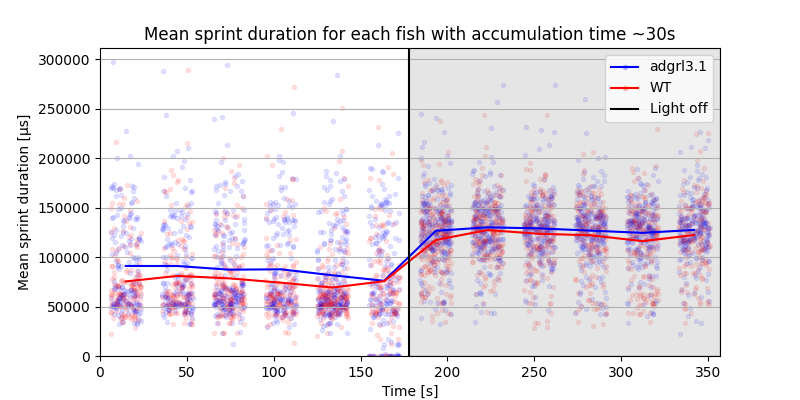
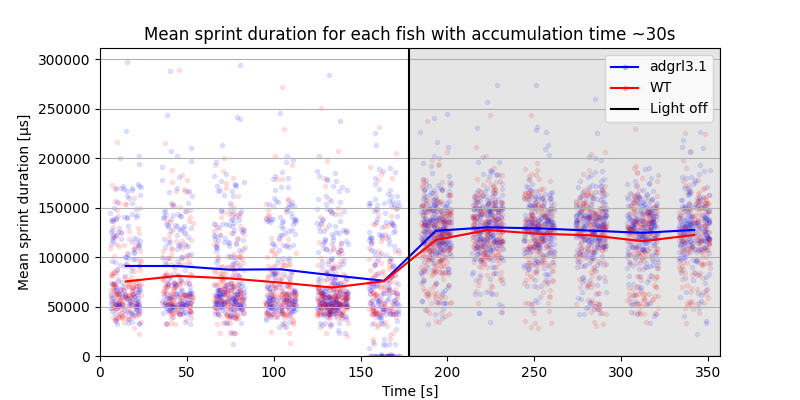
almost there

diff --git a/adgrl3-experiment/classification.py b/adgrl3-experiment/classification.py
@@ -66,80 +66,94 @@ def plot_histogram_bins(mutant_on, mutant_off, wildtype_on, wildtype_off,metric,
     plt.legend()
 
     plt.tight_layout()
-    fig.savefig(f"graphics\graphs\histograms\histogram-{'-'.join(metric.lower().split())}.png")
+    # fig.savefig(f"graphics\graphs\histograms\histogram-{'-'.join(metric.lower().split())}.png")
     plt.show()
+
+N_train = int(TRAIN_RATIO * 96)
+N_test = 96 - N_train
+train_array = np.concatenate((np.ones((1,N_train)),np.zeros((1,N_test))),axis=1)[0]
+
+train_store = []
+seed = 2616854216
 
 for date_i, date in enumerate(DATES):
     for exp_i, exp in enumerate(EXPERIMENTS[date_i]):
 
         mutants_on_left = bool(MUTANTS_ON_LEFT[date_i][exp_i])
-
         comp_count = 0
 
-        for alph in ALPH_MAP:
+        np.random.seed(seed)
+
+        seed += 1
+
+        np.random.shuffle(train_array)
+        train_store.append(train_array.copy())
+
+        for a, alph in enumerate(ALPH_MAP):
             for num in range(1,13):
-                COMP_ID = f"{alph}{num}"
+                # detect if this compartment is train
+                if train_array[comp_count] == 1:
+                    COMP_ID = f"{alph}{num}"
 
-                # detect if this compartment is train or test
+                    if (mutants_on_left == True and num < 7) or (mutants_on_left == False and num >= 7):
+                        is_mutant = True
+                    else:
+                        is_mutant = False
 
+                    with open(BASE_PATH + date + f"/ex{exp}/compartments/{COMP_ID}.csv", mode="r") as file:
+                        csvFile = csv.reader(file)
+                        next(csvFile)
+
+                        timestamps = [int(row[3]) for row in csvFile]
+                        event_count_on = len([time for time in timestamps if time < SPIKE_TIME*1000000])
+                        event_count_off = len([time for time in timestamps if time >= (SPIKE_TIME+1)*1000000])
+
+                        if is_mutant:
+                            ec_mutant_on.append(event_count_on)
+                            ec_mutant_off.append(event_count_off)
+                        else:
+                            ec_wildtype_on.append(event_count_on)
+                            ec_wildtype_off.append(event_count_off)
+
+                    with open(BASE_PATH2 + date + f"/ex{exp}/compartments/{COMP_ID}.csv", mode="r") as file:
+                        csvFile = csv.reader(file)
+                        next(csvFile)
+
+                        durs  = []
+                        starts = []
+                        ends = []
+
+                        for row in csvFile:
+                            durs.append(int(row[0]))
+                            starts.append(int(row[1]))
+                            ends.append(int(row[2]))
+
+                        durations_on =  [dur for start,dur in zip(starts,durs) if start < SPIKE_TIME*1000000]
+                        durations_off = [dur for start,dur in zip(starts,durs) if start >= (SPIKE_TIME+1)*1000000]
+
+                        sprint_count_on = len(durations_on)
+                        sprint_count_off = len(durations_off)
+                        sprint_dur_on = np.mean(durations_on)/1000000
+                        sprint_dur_off = np.mean(durations_off)/1000000
+                        time_moving_on = sum(durations_on)/1000000
+                        time_moving_off = sum(durations_off)/1000000
+
+                        if is_mutant:
+                            sc_mutant_on.append(sprint_count_on)
+                            sc_mutant_off.append(sprint_count_off)
+                            sd_mutant_on.append(sprint_dur_on)
+                            sd_mutant_off.append(sprint_dur_off)
+                            tm_mutant_on.append(time_moving_on)
+                            tm_mutant_off.append(time_moving_off)
+                        else:
+                            sc_wildtype_on.append(sprint_count_on)
+                            sc_wildtype_off.append(sprint_count_off)
+                            sd_wildtype_on.append(sprint_dur_on)
+                            sd_wildtype_off.append(sprint_dur_off)
+                            tm_wildtype_on.append(time_moving_on)
+                            tm_wildtype_off.append(time_moving_off)
+                
                 comp_count += 1
-                if (mutants_on_left == True and num < 7) or (mutants_on_left == False and num >= 7):
-                    is_mutant = True
-                else:
-                    is_mutant = False
-
-                with open(BASE_PATH + date + f"/ex{exp}/compartments/{COMP_ID}.csv", mode="r") as file:
-                    csvFile = csv.reader(file)
-                    next(csvFile)
-
-                    timestamps = [int(row[3]) for row in csvFile]
-                    event_count_on = len([time for time in timestamps if time < SPIKE_TIME*1000000])
-                    event_count_off = len([time for time in timestamps if time >= (SPIKE_TIME+1)*1000000])
-
-                    if is_mutant:
-                        ec_mutant_on.append(event_count_on)
-                        ec_mutant_off.append(event_count_off)
-                    else:
-                        ec_wildtype_on.append(event_count_on)
-                        ec_wildtype_off.append(event_count_off)
-
-                with open(BASE_PATH2 + date + f"/ex{exp}/compartments/{COMP_ID}.csv", mode="r") as file:
-                    csvFile = csv.reader(file)
-                    next(csvFile)
-
-                    durs  = []
-                    starts = []
-                    ends = []
-
-                    for row in csvFile:
-                        durs.append(int(row[0]))
-                        starts.append(int(row[1]))
-                        ends.append(int(row[2]))
-
-                    durations_on =  [dur for start,dur in zip(starts,durs) if start < SPIKE_TIME*1000000]
-                    durations_off = [dur for start,dur in zip(starts,durs) if start >= (SPIKE_TIME+1)*1000000]
-
-                    sprint_count_on = len(durations_on)
-                    sprint_count_off = len(durations_off)
-                    sprint_dur_on = np.mean(durations_on)/1000000
-                    sprint_dur_off = np.mean(durations_off)/1000000
-                    time_moving_on = sum(durations_on)/1000000
-                    time_moving_off = sum(durations_off)/1000000
-
-                    if is_mutant:
-                        sc_mutant_on.append(sprint_count_on)
-                        sc_mutant_off.append(sprint_count_off)
-                        sd_mutant_on.append(sprint_dur_on)
-                        sd_mutant_off.append(sprint_dur_off)
-                        tm_mutant_on.append(time_moving_on)
-                        tm_mutant_off.append(time_moving_off)
-                    else:
-                        sc_wildtype_on.append(sprint_count_on)
-                        sc_wildtype_off.append(sprint_count_off)
-                        sd_wildtype_on.append(sprint_dur_on)
-                        sd_wildtype_off.append(sprint_dur_off)
-                        tm_wildtype_on.append(time_moving_on)
-                        tm_wildtype_off.append(time_moving_off)
 
 sd_mutant_on = np.array(sd_mutant_on)
 sd_mutant_off = np.array(sd_mutant_off)
@@ -169,3 +183,82 @@ plot_histogram_bins(ec_mutant_on,ec_mutant_off,ec_wildtype_on,ec_wildtype_off,"E
 plot_histogram_bins(sc_mutant_on,sc_mutant_off,sc_wildtype_on,sc_wildtype_off,"Sprint count",160,50,"#")
 plot_histogram_bins(sd_mutant_on,sd_mutant_off,sd_wildtype_on,sd_wildtype_off,"Avg. sprint duration",45,50,"s")
 plot_histogram_bins(tm_mutant_on,tm_mutant_off,tm_wildtype_on,tm_wildtype_off,"Time moving",250,50,"s")
+
+
+
+recording_count = 0
+
+for date_i, date in enumerate(DATES):
+    for exp_i, exp in enumerate(EXPERIMENTS[date_i]):
+
+        mutants_on_left = bool(MUTANTS_ON_LEFT[date_i][exp_i])
+        comp_count = 0
+
+        train_store
+
+        for a, alph in enumerate(ALPH_MAP):
+            for num in range(1,13):
+                # detect if this compartment is test
+                if train_store[recording_count][comp_count] == 0:
+                    COMP_ID = f"{alph}{num}"
+
+                    if (mutants_on_left == True and num < 7) or (mutants_on_left == False and num >= 7):
+                        is_mutant = True
+                    else:
+                        is_mutant = False
+
+                    with open(BASE_PATH + date + f"/ex{exp}/compartments/{COMP_ID}.csv", mode="r") as file:
+                        csvFile = csv.reader(file)
+                        next(csvFile)
+
+                        timestamps = [int(row[3]) for row in csvFile]
+                        event_count_on = len([time for time in timestamps if time < SPIKE_TIME*1000000])
+                        event_count_off = len([time for time in timestamps if time >= (SPIKE_TIME+1)*1000000])
+
+                        if is_mutant:
+                            ec_mutant_on.append(event_count_on)
+                            ec_mutant_off.append(event_count_off)
+                        else:
+                            ec_wildtype_on.append(event_count_on)
+                            ec_wildtype_off.append(event_count_off)
+
+                    with open(BASE_PATH2 + date + f"/ex{exp}/compartments/{COMP_ID}.csv", mode="r") as file:
+                        csvFile = csv.reader(file)
+                        next(csvFile)
+
+                        durs  = []
+                        starts = []
+                        ends = []
+
+                        for row in csvFile:
+                            durs.append(int(row[0]))
+                            starts.append(int(row[1]))
+                            ends.append(int(row[2]))
+
+                        durations_on =  [dur for start,dur in zip(starts,durs) if start < SPIKE_TIME*1000000]
+                        durations_off = [dur for start,dur in zip(starts,durs) if start >= (SPIKE_TIME+1)*1000000]
+
+                        sprint_count_on = len(durations_on)
+                        sprint_count_off = len(durations_off)
+                        sprint_dur_on = np.mean(durations_on)/1000000
+                        sprint_dur_off = np.mean(durations_off)/1000000
+                        time_moving_on = sum(durations_on)/1000000
+                        time_moving_off = sum(durations_off)/1000000
+
+                        if is_mutant:
+                            sc_mutant_on.append(sprint_count_on)
+                            sc_mutant_off.append(sprint_count_off)
+                            sd_mutant_on.append(sprint_dur_on)
+                            sd_mutant_off.append(sprint_dur_off)
+                            tm_mutant_on.append(time_moving_on)
+                            tm_mutant_off.append(time_moving_off)
+                        else:
+                            sc_wildtype_on.append(sprint_count_on)
+                            sc_wildtype_off.append(sprint_count_off)
+                            sd_wildtype_on.append(sprint_dur_on)
+                            sd_wildtype_off.append(sprint_dur_off)
+                            tm_wildtype_on.append(time_moving_on)
+                            tm_wildtype_off.append(time_moving_off)
+                
+                comp_count += 1
+        recording_count += 1

diff --git a/adgrl3-experiment/plot-sprint-duration-all-fish.py b/adgrl3-experiment/plot-sprint-duration-all-fish.py
@@ -102,9 +102,6 @@ mt_avg = [0 for _ in range(BIN_COUNT)]
 wt_avg = [0 for _ in range(BIN_COUNT)]
 print(f"p-value\tSignificant")
 for bin_i in range(BIN_COUNT):
-    # _, p_value = stats.ttest_ind(np.nan_to_num(mutant_sprint_dur[bin_i]), np.nan_to_num(wildtype_sprint_dur[bin_i]))
-    # p_value_one_tailed = p_value / 2
-    # print(f"{p_value_one_tailed:.5f}\t{bool(p_value_one_tailed < 0.05)}")
     mutant_sprint_dur[bin_i] = np.array(mutant_sprint_dur[bin_i])
     mutant_sprint_dur[bin_i] = mutant_sprint_dur[bin_i][~np.isnan(mutant_sprint_dur[bin_i])]
     mutant_sprint_dur[bin_i] = mutant_sprint_dur[bin_i][np.nonzero(mutant_sprint_dur[bin_i])]
@@ -115,8 +112,11 @@ for bin_i in range(BIN_COUNT):
     wildtype_sprint_dur[bin_i] = wildtype_sprint_dur[bin_i][np.nonzero(wildtype_sprint_dur[bin_i])]
     wildtype_sprint_dur[bin_i] = list(wildtype_sprint_dur[bin_i])
 
-    _, p_value = stats.mannwhitneyu(np.nan_to_num(mutant_sprint_dur[bin_i]), np.nan_to_num(wildtype_sprint_dur[bin_i]))
-    print(f"{p_value:.5f}\t{bool(p_value < 0.05)}")
+    _, p_value = stats.ttest_ind(np.nan_to_num(mutant_sprint_dur[bin_i]), np.nan_to_num(wildtype_sprint_dur[bin_i]))
+    p_value_one_tailed = p_value / 2
+    print(f"{p_value_one_tailed:.5f}\t{bool(p_value_one_tailed < 0.05)}")
+    # _, p_value = stats.mannwhitneyu(np.nan_to_num(mutant_sprint_dur[bin_i]), np.nan_to_num(wildtype_sprint_dur[bin_i]))
+    # print(f"{p_value:.5f}\t{bool(p_value < 0.05)}")
     mt_avg[bin_i] = np.mean(np.nan_to_num(mutant_sprint_dur[bin_i]))
     wt_avg[bin_i] = np.mean(np.nan_to_num(wildtype_sprint_dur[bin_i]))
 

diff --git a/adgrl3-experiment/plot-time-moving-all-fish.py b/adgrl3-experiment/plot-time-moving-all-fish.py
@@ -113,7 +113,7 @@ plt.grid(axis="y")
 plt.vlines(SPIKE_TIME, 0, ymax*1.1, "k")
 time_step_axis = np.linspace(0,357,100000)
 plt.fill_between(time_step_axis, 0, ymax*1.1, where=(np.array(time_step_axis) >= SPIKE_TIME) & (np.array(time_step_axis) <= 357), color='gray', alpha=0.2)
-plt.ylim([0, ymax*1.1])
+plt.ylim([0, ymax*0.5])
 plt.show()
 
 fig.savefig(f"graphics/graphs/plot-time-moving-all-fish.png")

diff --git a/adgrl3-experiment/time-moving-sensitivity.py b/adgrl3-experiment/time-moving-sensitivity.py
@@ -70,9 +70,6 @@ for date_i, date in enumerate(DATES):
 
                     compartment_count += 1
 
-
-
-
             # Time_moving_array.append(time_moving/(compartment_count))
             Time_moving_array_on.append(time_moving_on/compartment_count)
             Time_moving_array_off.append(time_moving_off/compartment_count)
